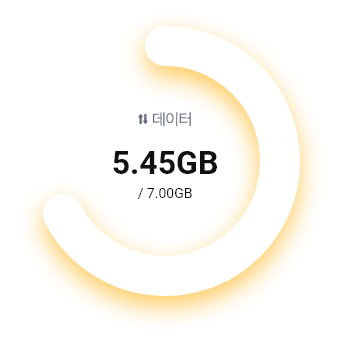
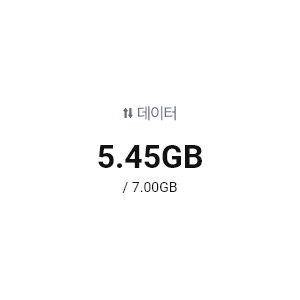
b-1

diff --git a/dfgdfGSRDGsdfg/kb_Liiv_Mobile/b-1/index.html b/dfgdfGSRDGsdfg/kb_Liiv_Mobile/b-1/index.html
@@ -1,5 +1,6 @@
 <!DOCTYPE html>
 <html lang="ko">
+
 <head>
     <meta charset="UTF-8">
     <meta http-equiv="X-UA-Compatible" content="IE=edge">
@@ -9,6 +10,7 @@
     <link href="./css/style.css" rel="stylesheet">
     <link rel="stylesheet" href="https://cdn.jsdelivr.net/npm/swiper@8/swiper-bundle.min.css" />
 </head>
+
 <body>
     <div class="wrap">
         <div class="move-btn home-btn">
@@ -42,71 +44,89 @@
             </section>
             <section class="sec-main">
                 <img src="./img/main-1.png" class="page-img">
-    
+
                 <div class="data-cont swiper-container">
                     <div class="swiper-wrapper">
                         <div class="swiper-slide">
                             <img src="./img/circle1.png" class="circle1">
-                            <span class="chart chart1" data-percent="70">
-                            </span>
+                            <svg class="circle-chart" viewbox="0 0 33.83098862 33.83098862" width="250" height="250"
+                                xmlns="http://www.w3.org/2000/svg">
+                                <circle class="circle-chart__background" stroke="#FDF5E3" stroke-width="5" fill="none"
+                                    cx="16.91549431" cy="16.91549431" r="13" />
+                                <circle class="circle-chart__circle" stroke="#FDBD36" stroke-width="5"
+                                    stroke-dasharray="50,100" stroke-linecap="round" fill="none" cx="16.91549431"
+                                    cy="16.91549431" r="13" />
+                            </svg>
                         </div>
                         <div class="swiper-slide">
                             <img src="./img/circle2.png" class="circle2">
-                            <span class="chart chart2" data-percent="40">
-                            </span>
+                            <svg class="circle-chart" viewbox="0 0 33.83098862 33.83098862" width="250" height="250"
+                                xmlns="http://www.w3.org/2000/svg">
+                                <circle class="circle-chart__background" stroke="#E2EEF2" stroke-width="5" fill="none"
+                                    cx="16.91549431" cy="16.91549431" r="13" />
+                                <circle class="circle-chart__circle" stroke="#22B5E9" stroke-width="5"
+                                    stroke-dasharray="30,100" stroke-linecap="round" fill="none" cx="16.91549431"
+                                    cy="16.91549431" r="13" />
+                            </svg>
                         </div>
                         <div class="swiper-slide">
                             <img src="./img/circle3.png" class="circle3">
-                            <span class="chart chart3" data-percent="80">
-                            </span>
+                            <svg class="circle-chart" viewbox="0 0 33.83098862 33.83098862" width="250" height="250"
+                                xmlns="http://www.w3.org/2000/svg">
+                                <circle class="circle-chart__background" stroke="#E2DFED" stroke-width="5" fill="none"
+                                    cx="16.91549431" cy="16.91549431" r="13" />
+                                <circle class="circle-chart__circle" stroke="#4A21F4" stroke-width="5"
+                                    stroke-dasharray="65,100" stroke-linecap="round" fill="none" cx="16.91549431"
+                                    cy="16.91549431" r="13" />
+                            </svg>
                         </div>
                         <div class="swiper-slide">
                             <div class="bar-graph bar-graph-vertical bar-graph-two">
                                 <div class="bar-one bar-container">
-                                  <div class="bar" data-percentage="40%">
-                                    <img src="./img/month-5.png" class="month">
-                                </div>
+                                    <div class="bar" data-percentage="40%">
+                                        <img src="./img/month-5.png" class="month">
+                                    </div>
                                 </div>
                                 <div class="bar-two bar-container">
-                                  <div class="bar" data-percentage="55%">
-                                    <img src="./img/month-6.png" class="month">
-                                  </div>
-                                  <!-- <span class="year">2018</span> -->
+                                    <div class="bar" data-percentage="55%">
+                                        <img src="./img/month-6.png" class="month">
+                                    </div>
+                                    <!-- <span class="year">2018</span> -->
                                 </div>
                                 <div class="bar-three bar-container">
-                                  <div class="bar" data-percentage="68%">
-                                    <img src="./img/month-7.png" class="month">
-                                  </div>
-                                  <!-- <span class="year">2017</span> -->
+                                    <div class="bar" data-percentage="68%">
+                                        <img src="./img/month-7.png" class="month">
+                                    </div>
+                                    <!-- <span class="year">2017</span> -->
                                 </div>
                                 <div class="bar-four bar-container">
-                                  <div class="bar" data-percentage="100%">
-                                    <img src="./img/month-10.png" class="month">
-                                  </div>
-                                  <!-- <span class="year">2016</span> -->
+                                    <div class="bar" data-percentage="100%">
+                                        <img src="./img/month-10.png" class="month">
+                                    </div>
+                                    <!-- <span class="year">2016</span> -->
                                 </div>
                                 <div class="bar-five bar-container">
-                                  <div class="bar" data-percentage="82%">
-                                    <img src="./img/month-11.png" class="month">
-                                    <img src="./img/month-11-num.png" class="month-11-num">
-                                  </div>
-                                  <!-- <span class="year">2016</span> -->
+                                    <div class="bar" data-percentage="82%">
+                                        <img src="./img/month-11.png" class="month">
+                                        <img src="./img/month-11-num.png" class="month-11-num">
+                                    </div>
+                                    <!-- <span class="year">2016</span> -->
                                 </div>
                             </div>
                         </div>
                     </div>
                 </div>
-    
+
                 <img src="./img/main-2.png" class="page-img">
-    
+
                 <div class="membership-cont">
                     <div class="membership">
                         <img src="./img/membership-list.png">
                     </div>
                 </div>
-    
+
                 <img src="./img/main-3.png" class="page-img">
-    
+
                 <div class="acco">
                     <div class="serv-list-1">
                         <img src="./img/serv-1.png" class="serv serv-1">
@@ -130,25 +150,25 @@
                 <img src="./img/chat-enter.png" class="page-img">
             </section>
             <section class="sec-chat-full">
-    
+
                 <img src="./img/chat-full-1.png" class="page-img">
-                
+
                 <div class="location-cont">
                     <div class="location">
                         <img src="./img/location-list.png">
                     </div>
                 </div>
-                
+
                 <img src="./img/chat-full-2.png" class="page-img">
-                
+
                 <div class="hashtag-cont">
                     <div class="hashtag">
                         <img src="./img/hashtag-list.png">
                     </div>
                 </div>
-    
+
                 <img src="./img/chat-bottom.png" class="chat-bottom">
-    
+
             </section>
             <section class="sec-alert">
                 <img src="./img/alert.png" class="page-img">
@@ -165,7 +185,7 @@
             </section>
 
             <section class="sec-no-member">
-                
+
                 <img src="./img/no-mem-1.png" class="page-img">
 
                 <div class="enjoy-cont swiper-container">
@@ -219,9 +239,10 @@
         </div>
     </div>
 
-	<script src="./js/easypiechart.js"></script>
+    <script src="./js/easypiechart.js"></script>
     <script src="https://cdn.jsdelivr.net/npm/swiper@8/swiper-bundle.min.js"></script>
     <script src="./js/jquery-3.6.0.min.js"></script>
     <script src="./js/script.js"></script>
 </body>
+
 </html>

diff --git a/dfgdfGSRDGsdfg/kb_Liiv_Mobile/b-1/js/script.js b/dfgdfGSRDGsdfg/kb_Liiv_Mobile/b-1/js/script.js
@@ -370,60 +370,15 @@ $(document).ready(function () {
         on: {
             activeIndexChange: function () {
                 if (this.realIndex ==0){
-                    $('.chart1 canvas').css({
-                        'display':'none'
-                    })
-                    var chart = window.chart = new EasyPieChart(document.querySelector('span.chart1'), {
-                        easing: 'easeOutElastic',
-                        delay: 3000,
-                        barColor: '#FDBD36',
-                        trackColor: '#FDF5E3',
-                        scaleColor: false,
-                        lineWidth: 40,
-                        trackWidth: 40,
-                        lineCap: 'round',
-                        size:270,
-                        onStep: function(from, to, percent) {
-                            this.el.children[0].innerHTML = Math.round(percent);
-                        }
-                    });
+                    $('.circle-chart__circle').removeClass('on')
+                    $('.data-cont.swiper-container .swiper-wrapper .swiper-slide:nth-child(1) .circle-chart__circle').addClass('on')
                 } else if (this.realIndex == 1){
-                    $('.chart2 canvas').css({
-                        'display':'none'
-                    })
-                    var chart = window.chart = new EasyPieChart(document.querySelector('span.chart2'), {
-                        easing: 'easeOutElastic',
-                        delay: 3000,
-                        barColor: '#22B5E9',
-                        trackColor: '#E2EEF2',
-                        scaleColor: false,
-                        lineWidth: 40,
-                        trackWidth: 40,
-                        lineCap: 'round',
-                        size:270,
-                        onStep: function(from, to, percent) {
-                            this.el.children[0].innerHTML = Math.round(percent);
-                        }
-                    });
+                    $('.circle-chart__circle').removeClass('on')
+                    $('.data-cont.swiper-container .swiper-wrapper .swiper-slide:nth-child(2) .circle-chart__circle').addClass('on')
                 } else if (this.realIndex == 2) {
-                    $('.chart3 canvas').css({
-                        'display':'none'
-                    })
-                    var chart = window.chart = new EasyPieChart(document.querySelector('span.chart3'), {
-                        easing: 'easeOutElastic',
-                        delay: 3000,
-                        barColor: '#4A21F4',
-                        trackColor: '#E2DFED',
-                        scaleColor: false,
-                        lineWidth: 40,
-                        trackWidth: 40,
-                        lineCap: 'round',
-                        size:270,
-                        onStep: function(from, to, percent) {
-                            this.el.children[0].innerHTML = Math.round(percent);
-                        }
-                    });
-                } else if (this.realIndex == 3) {
+                    $('.circle-chart__circle').removeClass('on')
+                    $('.data-cont.swiper-container .swiper-wrapper .swiper-slide:nth-child(3) .circle-chart__circle').addClass('on')
+                } if (this.realIndex == 3) {
                     $('.bar-one .bar').css({
                         '-webkit-animation': 'show-bar-one-vertical 1.2s 0.1s forwards',
                         '-moz-animation': 'show-bar-one-vertical 1.2s 0.1s forwards',

diff --git a/dfgdfGSRDGsdfg/kb_Liiv_Mobile/b-1/css/style.css b/dfgdfGSRDGsdfg/kb_Liiv_Mobile/b-1/css/style.css
@@ -30,7 +30,18 @@ section {opacity: 0; position:absolute; width: 390px; top: 0; overflow-y: hidden
 .sec-pop-2 .popup-2 {transition: .5s; position: absolute; bottom: 0; left: 0; cursor: pointer;}
 
 
-
+.circle-chart {width: 100%; height: 100%; position: absolute; top: -12px; left: 0;}
+.circle-chart__circle {transform: rotate(-90deg); transform-origin: center;}
+.circle-chart__circle.on {animation: circle-chart-fill 1s reverse;}
+@keyframes circle-chart-fill {
+  to { stroke-dasharray: 0 100; }
+}
+@keyframes circle-chart-appear {
+  to {
+    opacity: 1;
+    transform: translateY(0);
+  }
+}
 
 .sec-main {}
 
@@ -38,12 +49,17 @@ section {opacity: 0; position:absolute; width: 390px; top: 0; overflow-y: hidden
 .sec-main .data-cont.swiper-container {width: 100%; text-align: center; position: relative;}
 .sec-main .data-cont.swiper-container .swiper-wrapper .swiper-slide {width: 300px !important; height: 300px; text-align: center; position: relative;}
 .sec-main .data-cont.swiper-container .swiper-wrapper .swiper-slide .chart canvas {position:absolute; left: 50%; transform: translateX(-50%);}
+
 .sec-main .data-cont.swiper-container .swiper-wrapper .swiper-slide .chart1 {position: relative; width: 300px !important;}
+.sec-main .data-cont.swiper-container .swiper-wrapper .swiper-slide:nth-child(1) .circle-chart__circle {filter: drop-shadow( -1px 0px 1px rgba(253, 189, 54, .8));}
+.sec-main .data-cont.swiper-container .swiper-wrapper .swiper-slide:nth-child(2) .circle-chart__circle {filter: drop-shadow( -1px 0px 1px rgba(34, 181, 233, .5));}
+.sec-main .data-cont.swiper-container .swiper-wrapper .swiper-slide:nth-child(3) .circle-chart__circle {filter: drop-shadow( -1px 0px 1px rgba(74, 33, 244, .28));}
+
 .sec-main .data-cont.swiper-container .swiper-wrapper .swiper-slide .chart2 {position: relative; width: 300px !important;}
 .sec-main .data-cont.swiper-container .swiper-wrapper .swiper-slide .chart3 {position: relative; width: 300px !important;}
-.sec-main .data-cont.swiper-container .swiper-wrapper .swiper-slide .circle1{position: absolute; top: -27px; left: -15px;}
-.sec-main .data-cont.swiper-container .swiper-wrapper .swiper-slide .circle2{position: absolute; top: -27px; left: 15px;}
-.sec-main .data-cont.swiper-container .swiper-wrapper .swiper-slide .circle3{position: absolute; top: -27px; left: -21px;}
+.sec-main .data-cont.swiper-container .swiper-wrapper .swiper-slide .circle1{position: absolute; top: -13px; left: 0;}
+.sec-main .data-cont.swiper-container .swiper-wrapper .swiper-slide .circle2{position: absolute; top: -13px; left: 0;}
+.sec-main .data-cont.swiper-container .swiper-wrapper .swiper-slide .circle3{position: absolute; top: -13px; left: 0;}
 /* .sec-main .data-cont.swiper-container .swiper-wrapper .swiper-slide p{margin-top: 19px; color: #ccc;} */
 /* .sec-main .data-cont.swiper-container .swiper-wrapper .swiper-slide .bedge{transition: .5s; position: absolute; bottom: 10px; right: 0; background-color: red; opacity: 0; width: 35px; border-radius: 10px 10px 10px 0; font-size: 10px; line-height: 20px; text-align: center;}
 .sec-main .data-cont.swiper-container .swiper-wrapper .swiper-slide .bedge.on{opacity: 1;} */
